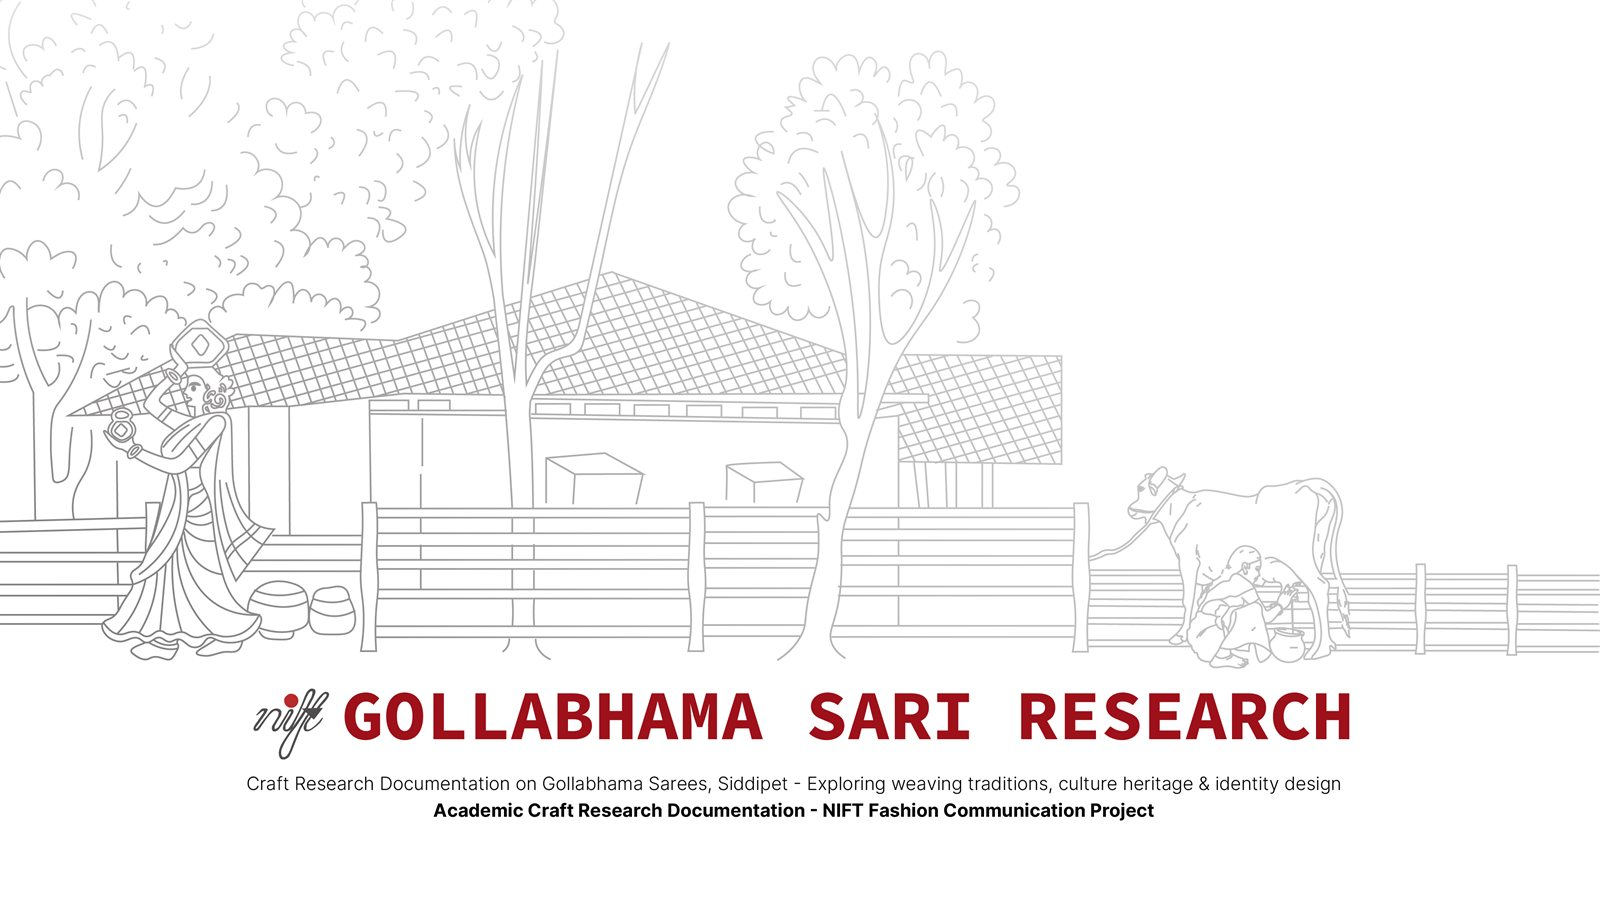
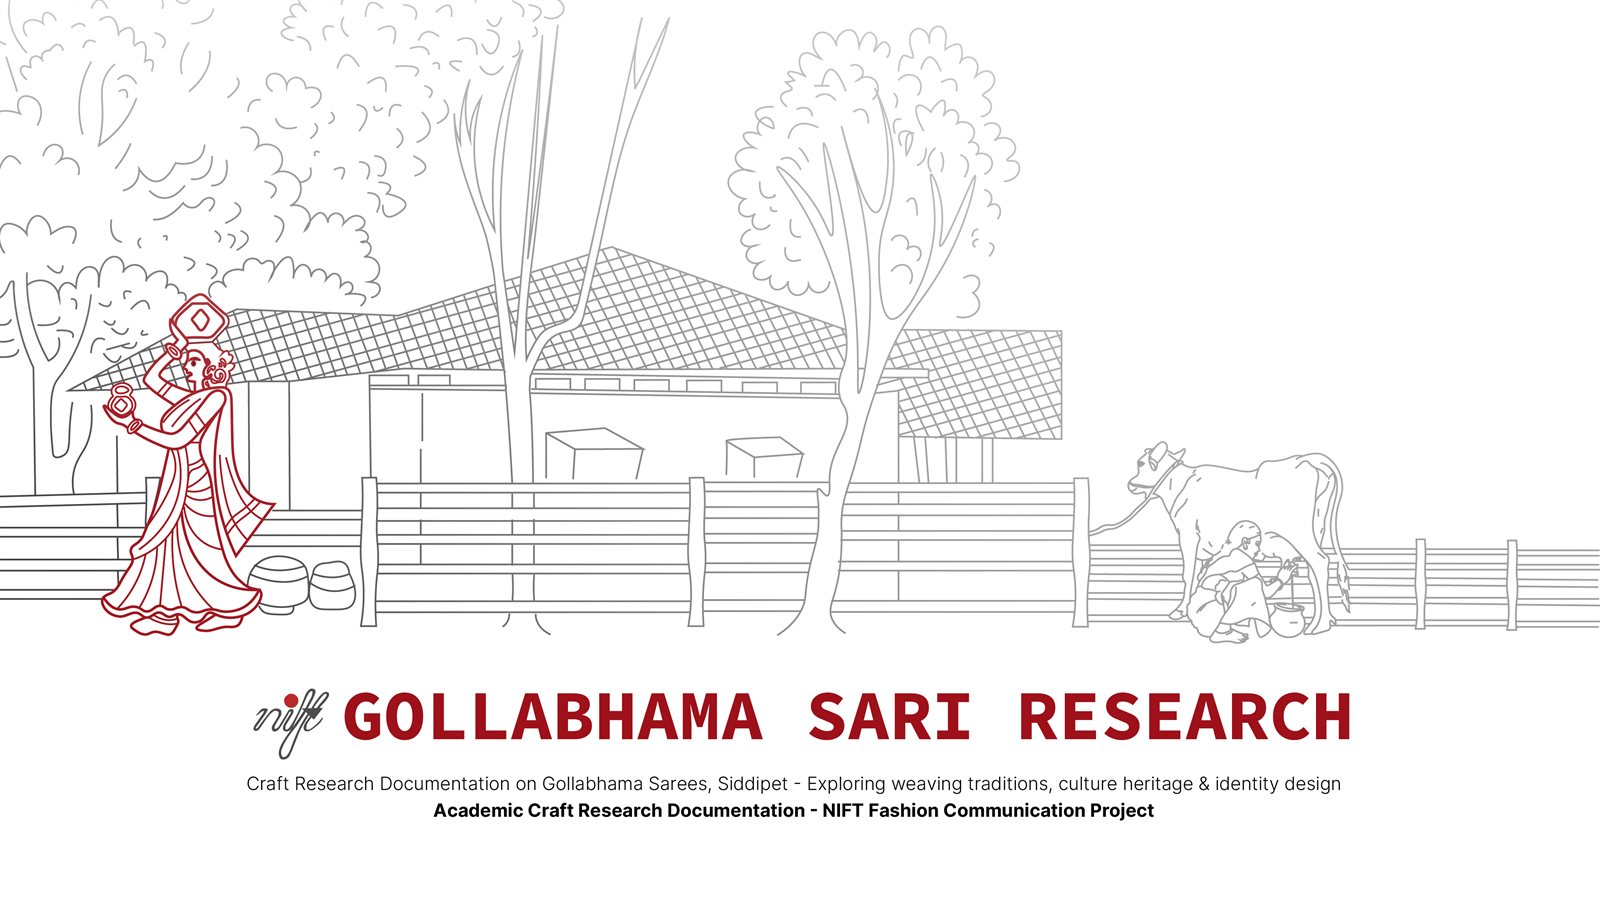
Replace Gollabhama Craft Study cover

diff --git a/index.html b/index.html
@@ -735,7 +735,7 @@
       <h3>Research &amp; Documentation <span class="count">2 projects</span></h3>
       <div class="cards">
         <a class="card" href="Amphi%20Ambulence.pdf" data-pdf="Amphi%20Ambulence.pdf"><div class="thumb"><img src="thumbnails/AMPHI%20-%20Ambulance%20Research.jpg" alt="AMPHI emergency ambulance concept render, Emergency Care Orbit" loading="lazy"></div><div class="title">AMPHI - Ambulance Research</div><div class="sub">Research &amp; Documentation</div></a>
-        <a class="card" href="#" data-soon><div class="thumb"><img src="thumbnails/Gollabhama%20Craft%20Study.jpg?v=2" alt="Gollabhama Sari Research cover, line drawing of a Siddipet village scene" loading="lazy"></div><div class="title">Gollabhama Craft Study</div><div class="sub">Craft Research &amp; Documentation</div></a>
+        <a class="card" href="#" data-soon><div class="thumb"><img src="thumbnails/Gollabhama%20Craft%20Study.jpg?v=3" alt="Gollabhama Sari Research cover, line drawing of a Siddipet village scene" loading="lazy"></div><div class="title">Gollabhama Craft Study</div><div class="sub">Craft Research &amp; Documentation</div></a>
       </div>
     </div>
 
